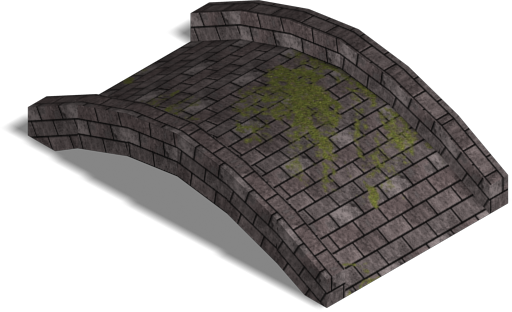
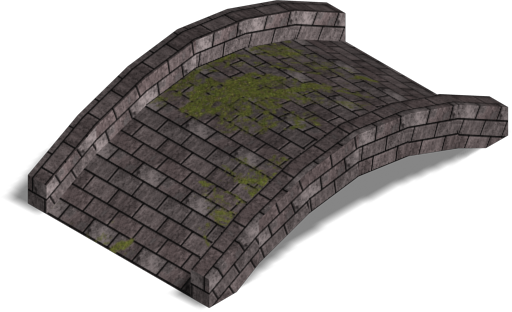
Castle bridge: rotate 90° to span the moat + water flows cleanly under the arch
- swap the model to the OGA Bridge _02 "20000" frame (the 90°-rotated deck) so the
  arch spans ACROSS the moat band instead of running along it.
- draw the bridge as a single stamp AFTER the whole chunk/water loop (record its
  screen pos as bridgeStamp during the loop) instead of inside the per-tile water
  branch. Now neighbouring moat-water tiles can't paint over the deck and the moat
  animation flows cleanly under the arch opening.

Verified at the Nottingham gate: bridge crosses the water correctly, moat visible
flowing under the arch, no water over the deck, no console errors.

diff --git a/client/js/renderer.js b/client/js/renderer.js
@@ -1149,6 +1149,7 @@ export class Renderer {
     const minY = Math.min(...corners.map(c => c[1])) - 3, maxY = Math.max(...corners.map(c => c[1])) + 6 + elevPad;
     const c0x = Math.floor(minX / CH), c1x = Math.floor(maxX / CH);
     const c0y = Math.floor(minY / CH), c1y = Math.floor(maxY / CH);
+    let bridgeStamp = null;   // castle bridge model screen pos, drawn after all water
     for (let cy = c0y; cy <= c1y; cy++) for (let cx = c0x; cx <= c1x; cx++) {
       const cc = chunkCanvas(plane, cx, cy);
       const [bx, by] = toScreen(cx * CH, cy * CH);
@@ -1163,15 +1164,13 @@ export class Renderer {
           if (w.bridge) {   // flowing channel water, with the deck relaid on top
             ctx.drawImage(waterAnim(TILE.RIVER)[((now / 260 + w.ph) | 0) & 3], sx, sy + 9);
             if (isCastleBridge(w.x, w.y)) {
-              // the castle causeway is the single OGA arched stone-bridge model,
-              // stamped once on the mid tile so it spans the whole 3-wide crossing.
+              // the castle causeway is the single OGA arched stone-bridge model. It
+              // is stamped AFTER all water (see bridgeStamp below) so the moat flows
+              // cleanly under the arch and no neighbouring water tile paints over it.
               // Until the image streams in, fall back to the procedural stone deck.
               const bim = mimg('overhaul/bridge_stone.png');
               if (bim && bim.complete && bim.naturalWidth) {
-                if (castleBridgeAnchorAt(w.x, w.y)) {
-                  const bw = 270, bh = bw * bim.naturalHeight / bim.naturalWidth;
-                  ctx.drawImage(bim, cox + w.lx - bw / 2, coy + w.ly - bh * 0.66, bw, bh);
-                }
+                if (castleBridgeAnchorAt(w.x, w.y)) bridgeStamp = { x: cox + w.lx, y: coy + w.ly };
               } else {
                 drawBridge(ctx, cox + w.lx, coy + w.ly, w.x, w.y, plane);
               }
@@ -1214,6 +1213,14 @@ export class Renderer {
           if (w.churn) ctx.drawImage(fallAnim('splash')[((now / 90 + w.ph) | 0) & 7], sx, sy);
         }
       }
+    }
+
+    // Castle bridge model — stamped AFTER every water tile so the moat animation
+    // flows cleanly under the arch and no neighbouring water paints over the deck.
+    if (bridgeStamp) {
+      const bim = mimg('overhaul/bridge_stone.png');
+      const bw = 300, bh = bw * bim.naturalHeight / bim.naturalWidth;
+      ctx.drawImage(bim, bridgeStamp.x - bw / 2, bridgeStamp.y - bh * 0.6, bw, bh);
     }
 
     // ---- collect drawables (entities + nodes + farming), depth sort ----